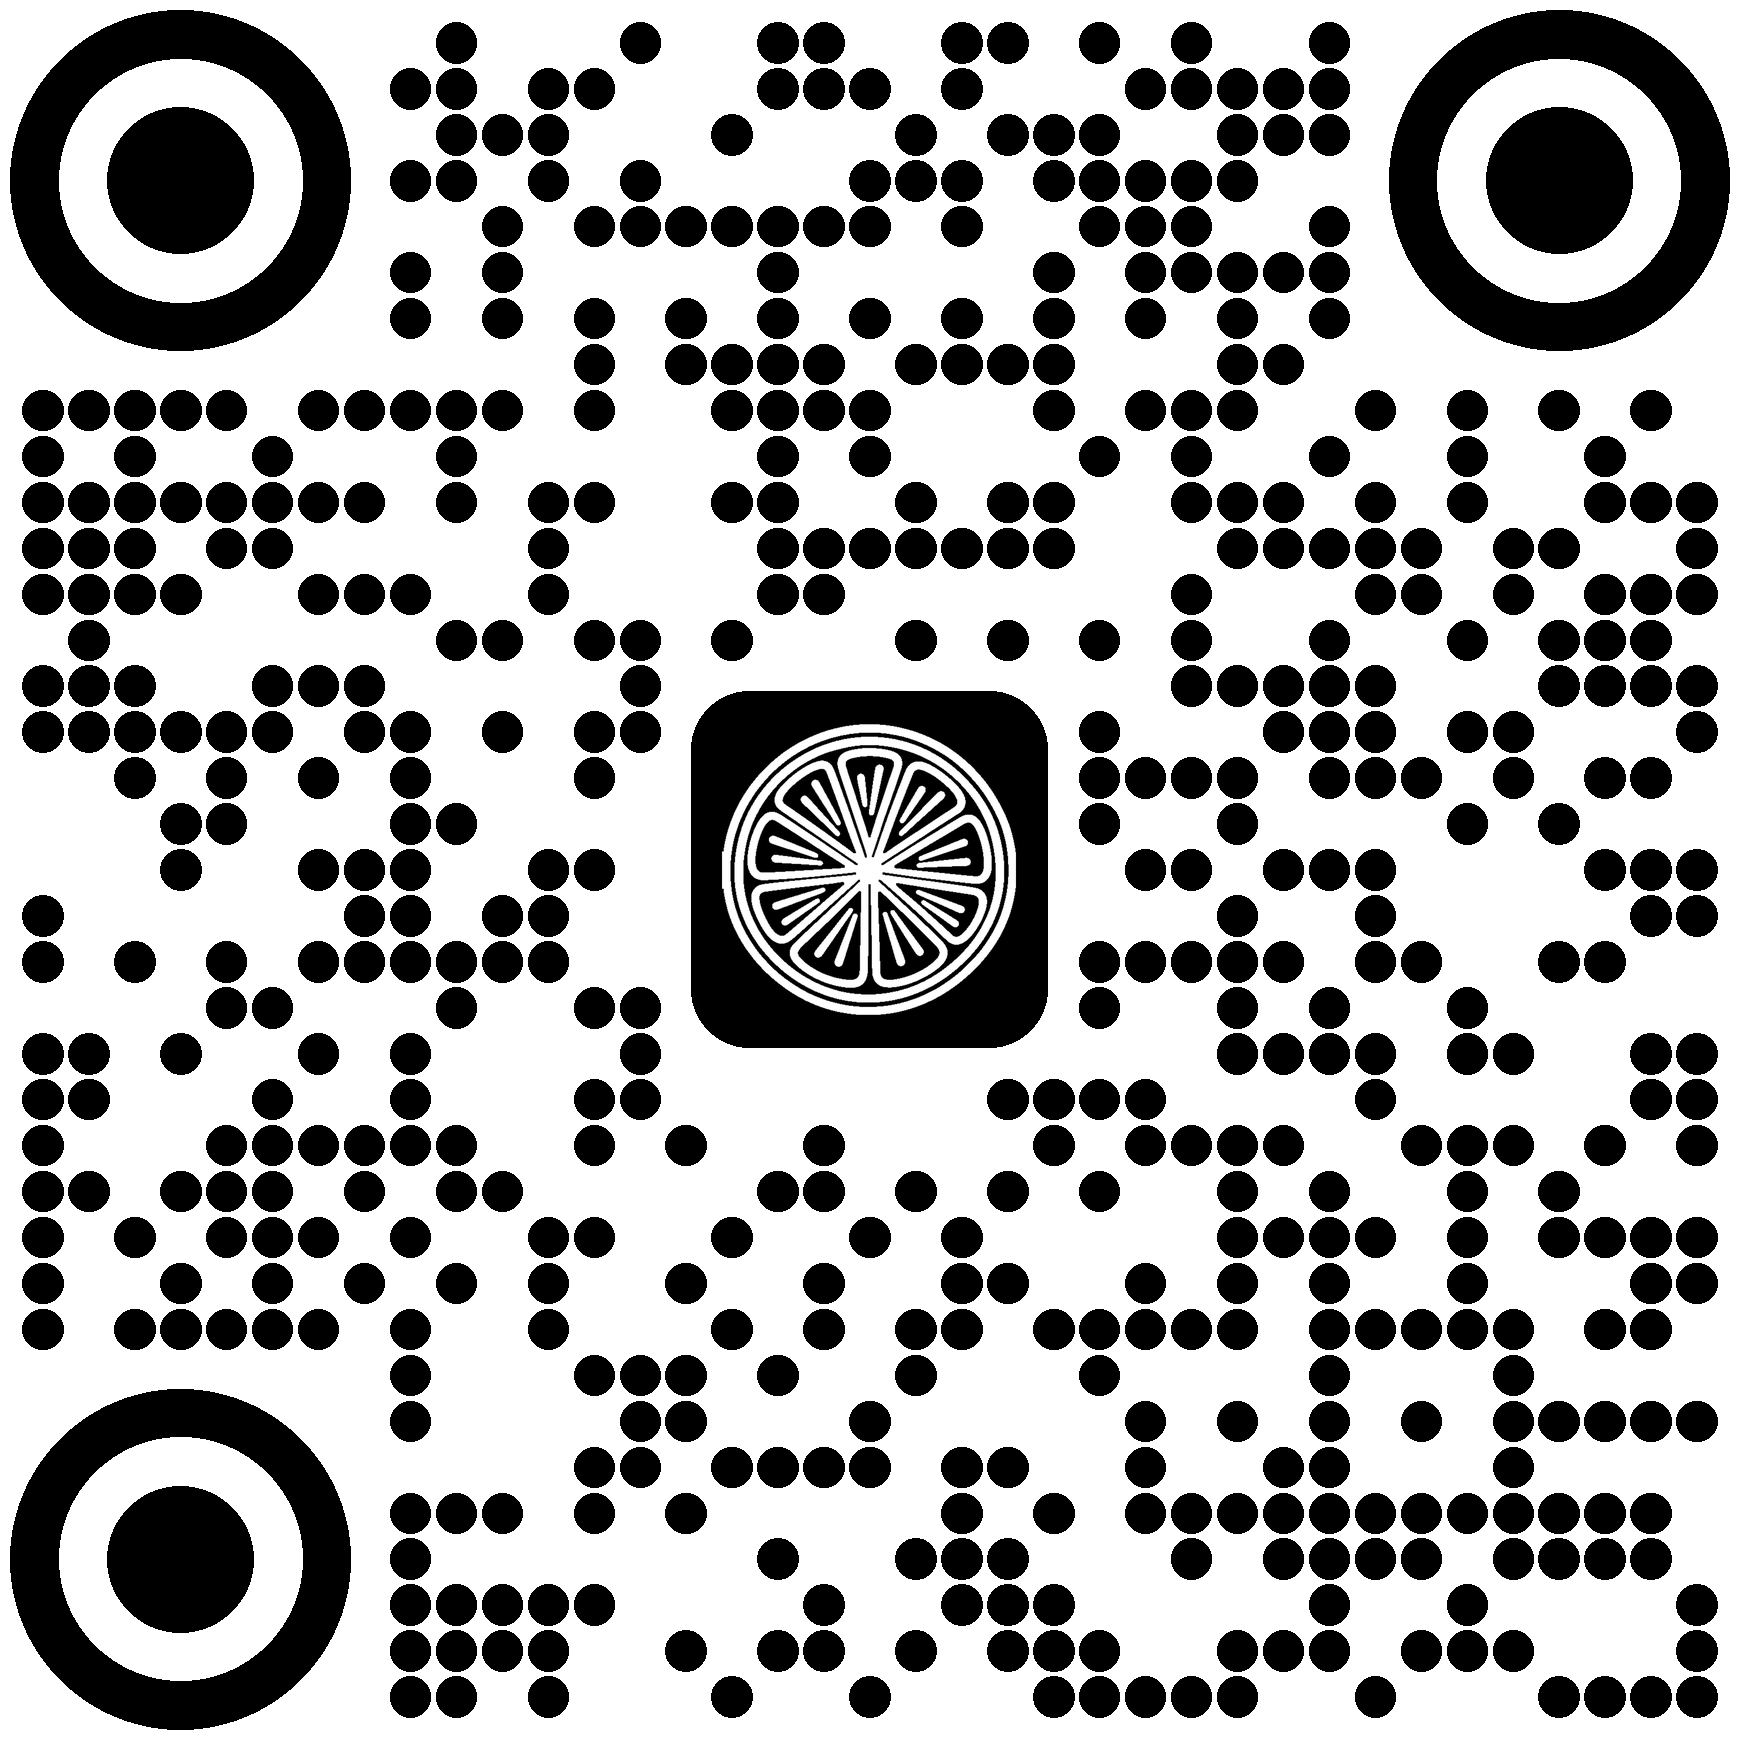
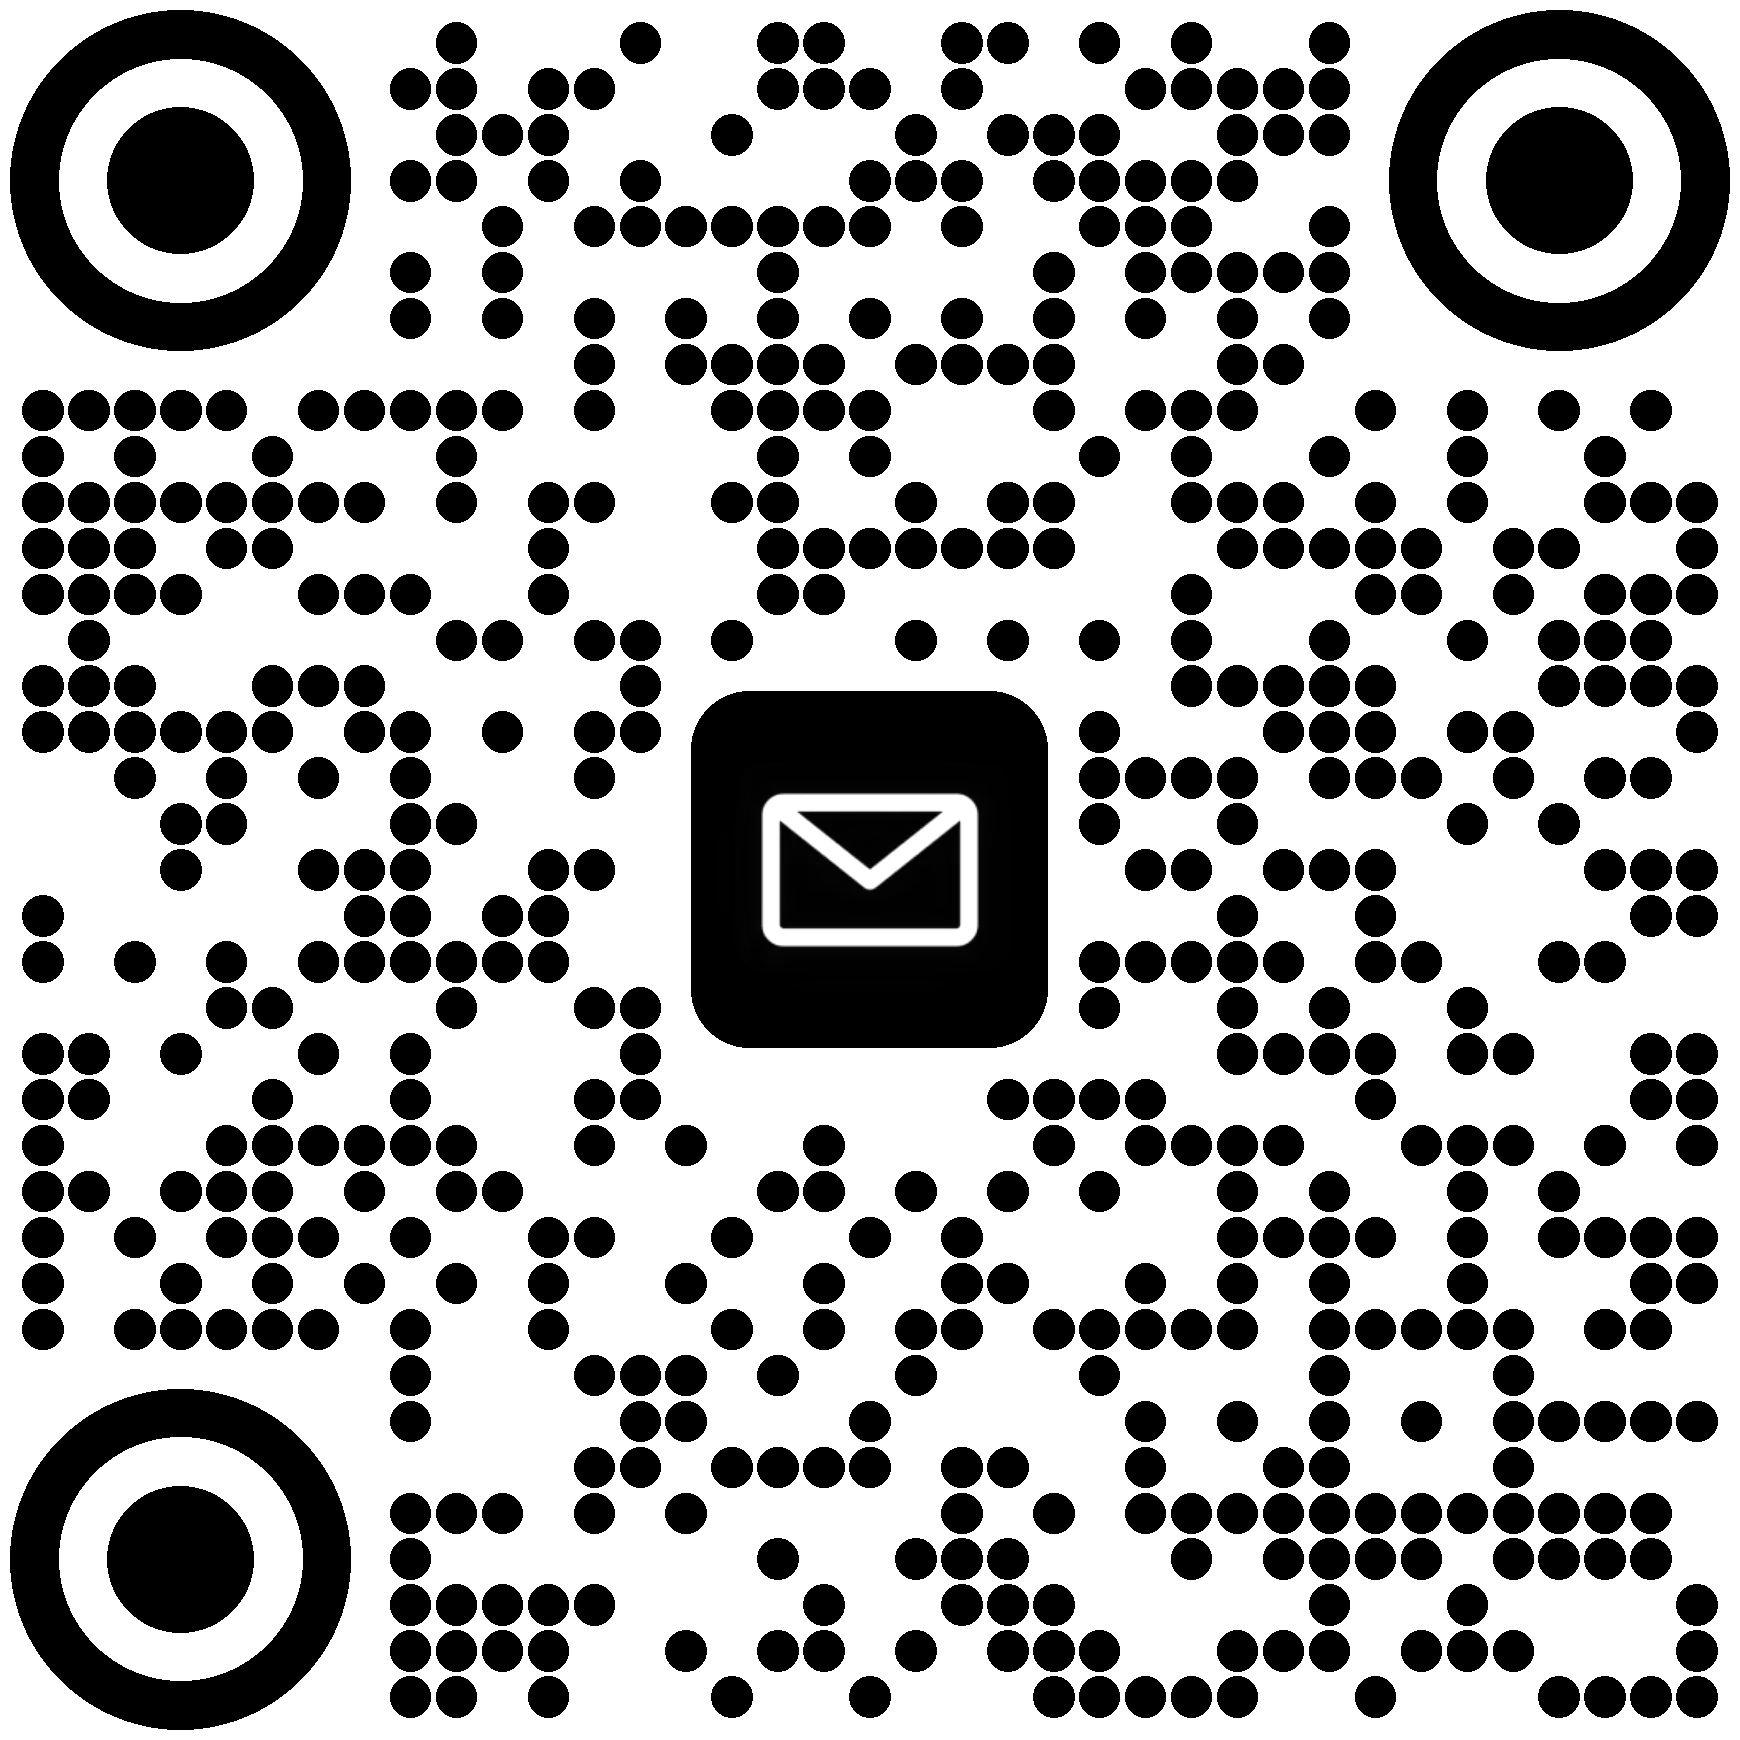
deploy: auto-commit 2026-08-20 09:27Z

Changed region(s): [[0.4034, 0.4034, 0.5897, 0.5897]]

diff --git a/functions/_data/i18n.ts b/functions/_data/i18n.ts
@@ -27,6 +27,7 @@ export const translations: Record<string, Record<string, string>> = {
     "contact_title": "联系方式",
     "visit_bilibili": "访问B站主页",
     "click_to_copy": "点击复制",
+    "click_mailto_copy": "点击发送邮件并复制",
     "copied": "已复制",
     "platform_bilibili": "B站",
     "platform_qq": "QQ",
@@ -159,6 +160,7 @@ export const translations: Record<string, Record<string, string>> = {
     "contact_title": "Contact",
     "visit_bilibili": "Visit Bilibili",
     "click_to_copy": "Click to copy",
+    "click_mailto_copy": "Click to email and copy",
     "copied": "Copied",
     "platform_bilibili": "Bilibili",
     "platform_qq": "QQ",
@@ -291,6 +293,7 @@ export const translations: Record<string, Record<string, string>> = {
     "contact_title": "お問い合わせ",
     "visit_bilibili": "Bilibili を見る",
     "click_to_copy": "クリックでコピー",
+    "click_mailto_copy": "クリックでメール送信＆コピー",
     "copied": "コピーしました",
     "platform_bilibili": "Bilibili",
     "platform_qq": "QQ",
@@ -423,6 +426,7 @@ export const translations: Record<string, Record<string, string>> = {
     "contact_title": "연락처",
     "visit_bilibili": "빌리빌리 방문",
     "click_to_copy": "클릭하여 복사",
+    "click_mailto_copy": "클릭하여 메일 보내기 및 복사",
     "copied": "복사됨",
     "platform_bilibili": "빌리빌리",
     "platform_qq": "QQ",

diff --git a/src/templates/contact.html b/src/templates/contact.html
@@ -139,9 +139,10 @@ along with this program.  If not, see <https://www.gnu.org/licenses/>. #}
 
         <!-- 邮箱 -->
         <div class="reveal-item copyable pressable qr-trigger cursor-pointer group relative" onclick="handleCopy(this, 'services@limooo.cn')"
+            data-copy-tip="click_mailto_copy"
             data-qr="{{ _('email_qr') }}"
             data-i18n-attr="data-qr:email_qr">
-            <div class="bubble-tip" data-i18n="click_to_copy">{{ _('click_to_copy') }}</div>
+            <div class="bubble-tip" data-i18n="click_mailto_copy">{{ _('click_mailto_copy') }}</div>
             <p class="text-[11px] opacity-40 mb-1 tracking-[calc(0.3em*var(--ls-scale))]" data-i18n="platform_email">{{ _('platform_email') }}</p>
             <p class="text-lg md:text-2xl opacity-90 border-b-2 border-[var(--line)] pb-1 font-medium">
                 <a href="{{ _('email_mailto') }}"
@@ -197,7 +198,8 @@ function handleCopy(el, text) {
         var tip = el.querySelector('.bubble-tip');
         if (tip) {
             showTip(tip, t('copied'), true);
-            setTimeout(function() { showTip(tip, t('click_to_copy'), false); }, COPY_HINT_DURATION);
+            var tipKey = el.dataset.copyTip || 'click_to_copy';
+            setTimeout(function() { showTip(tip, t(tipKey), false); }, COPY_HINT_DURATION);
         }
     });
 }

diff --git a/functions/_middleware.ts b/functions/_middleware.ts
@@ -466,6 +466,10 @@ function renderGatePage(context: EventContext, opts: GateRenderOptions): Respons
 <meta name="robots" content="noindex, nofollow">
 <meta name="color-scheme" content="dark light">
 <meta name="theme-color" content="#17181c">
+<!-- ── 图标（与主站 base.html 一致） ── -->
+<link rel="icon" href="https://images.limooo.cn/icons/favicon.ico" sizes="any">
+<link rel="icon" href="https://images.limooo.cn/icons/favicon.png" type="image/png" sizes="256x256">
+<link rel="apple-touch-icon" href="https://images.limooo.cn/icons/favicon.png">
 <title>${t("title")}</title>
 <script>
   // 与主站共用 localStorage key "theme"：首次跟随系统，点击后固定并缓存
@@ -911,6 +915,10 @@ function renderRedirectPage(context: EventContext): Response {
 <meta charset="utf-8">
 <meta name="viewport" content="width=device-width, initial-scale=1">
 <meta http-equiv="refresh" content="1; url=${escapeHtml(to)}">
+<!-- ── 图标（与主站 base.html 一致） ── -->
+<link rel="icon" href="https://images.limooo.cn/icons/favicon.ico" sizes="any">
+<link rel="icon" href="https://images.limooo.cn/icons/favicon.png" type="image/png" sizes="256x256">
+<link rel="apple-touch-icon" href="https://images.limooo.cn/icons/favicon.png">
 <title>${t.title}</title>
     ${preloadLinks}
 <style>

diff --git a/src/templates/redirect.html b/src/templates/redirect.html
@@ -22,6 +22,10 @@ along with this program.  If not, see <https://www.gnu.org/licenses/>. #}
 <meta name="viewport" content="width=device-width, initial-scale=1">
 {# 1s 作为无 JS 兜底/硬上限；正常路径由页尾脚本立即或预热完成后跳转 #}
 <meta http-equiv="refresh" content="1; url={{ to }}">
+<!-- ── 图标（与主站 base.html 一致） ── -->
+<link rel="icon" href="https://images.limooo.cn/icons/favicon.ico" sizes="any">
+<link rel="icon" href="https://images.limooo.cn/icons/favicon.png" type="image/png" sizes="256x256">
+<link rel="apple-touch-icon" href="https://images.limooo.cn/icons/favicon.png">
 <title>{{ _('redirect_title') }}</title>
 {% if preload %}
     {% for rel in preload_images %}

diff --git a/src/templates/auth.html b/src/templates/auth.html
@@ -10,6 +10,10 @@
 <meta name="robots" content="noindex, nofollow">
 <meta name="color-scheme" content="dark light">
 <meta name="theme-color" content="#17181c">
+<!-- ── 图标（与主站 base.html 一致） ── -->
+<link rel="icon" href="https://images.limooo.cn/icons/favicon.ico" sizes="any">
+<link rel="icon" href="https://images.limooo.cn/icons/favicon.png" type="image/png" sizes="256x256">
+<link rel="apple-touch-icon" href="https://images.limooo.cn/icons/favicon.png">
 <title>{{ title }}</title>
 <script>
   // 与主站共用 localStorage key "theme"：首次跟随系统，点击后固定并缓存
